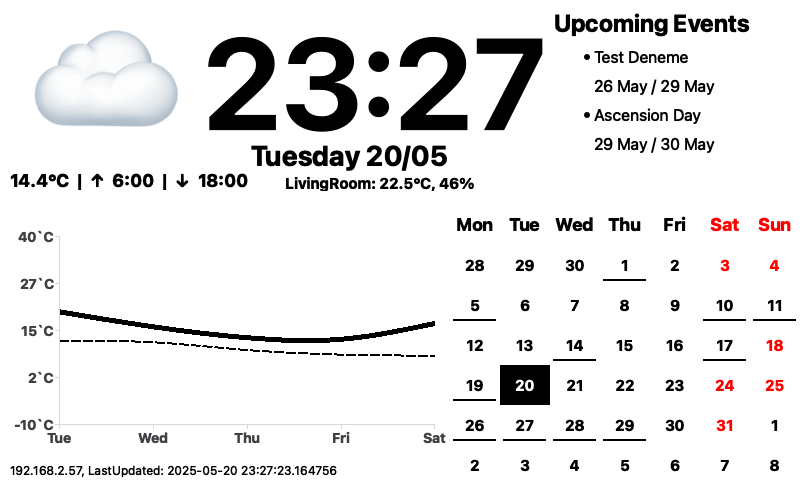
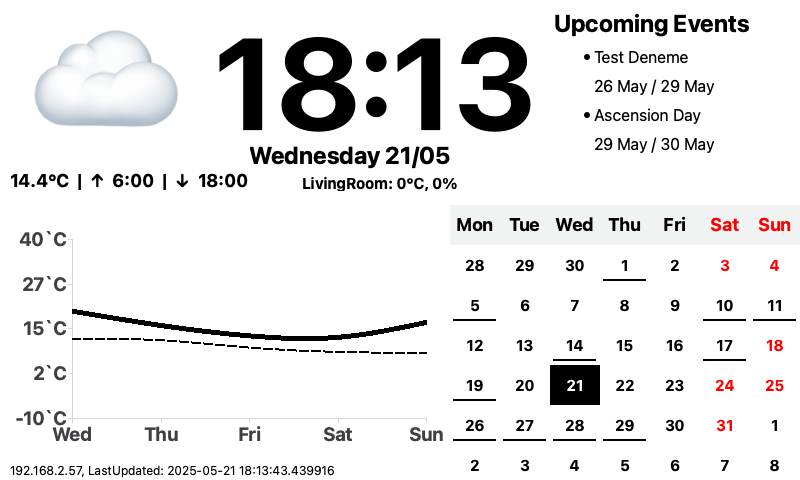
set default font

diff --git a/src/render_app.py b/src/render_app.py
@@ -116,7 +116,7 @@ class EInkDashboard(QWidget):
         self.clock_label.setAlignment(Qt.AlignCenter)
         self.clock_label.setGeometry(200, 1, 350, 160)
         self.date_label = QLabel(QDateTime.currentDateTime().toString("dddd dd/MM"), self)
-        date_font = QFont(); date_font.setPointSize(28); date_font.setBold(True)
+        date_font = QFont(); date_font.setPointSize(24); date_font.setBold(True)
         self.date_label.setFont(date_font)
         self.date_label.setAlignment(Qt.AlignCenter)
         self.date_label.setGeometry(250, 135, 200, 40)
@@ -181,7 +181,9 @@ class EInkDashboard(QWidget):
         self.sysinfo_label.setGeometry(10, 460, 400, 20)
 
 if __name__ == "__main__":
+    def_font = QFont("Roboto Mono")
     app = QApplication(sys.argv)
+    QApplication.setFont(def_font)
     window = EInkDashboard()
     window.setAttribute(Qt.WA_DontShowOnScreen)
     window.show()

diff --git a/src/providers/weather_provider.py b/src/providers/weather_provider.py
@@ -11,8 +11,8 @@ PORT = 1883
 CURRENT_WEATHER_TOPIC = "weather/current"
 WEATHER_FORECAST_TOPIC = "weather/estimation"
 CLIENT_ID = "weather-provider-client"
-USERNAME = None    # set if broker requires auth
-PASSWORD = None
+USERNAME = "ex"    # set if broker requires auth
+PASSWORD = "ex"
 
 
 def weather_emoji(code: int) -> str:
@@ -100,6 +100,7 @@ class WeatherProvider:
         Connect to the broker and start the network loop in the background.
         """
         if not self._running:
+            self.client.username_pw_set(username=USERNAME, password=PASSWORD)
             self.client.connect(BROKER, PORT, keepalive=60)
             self.client.loop_start()
             self._running = True

diff --git a/src/providers/notes_provider.py b/src/providers/notes_provider.py
@@ -53,6 +53,6 @@ class NotesProvider:
             start = get_formatted_dt_from_event(ev, "start")
             end = get_formatted_dt_from_event(ev, "end")
 
-            events_return_text += f"-  {ev["summary"]} \n"
-            events_return_text += f"\n   {start.strftime("%-d %b")} / {end.strftime("%-d %b")} \n"
+            events_return_text += f"-  {ev['summary']} \n"
+            events_return_text += f"\n   {start.strftime('%-d %b')} / {end.strftime('%-d %b')} \n"
         return events_return_text

diff --git a/src/providers/home_status_provider.py b/src/providers/home_status_provider.py
@@ -3,7 +3,7 @@
 
 import paho.mqtt.client as mqtt
 
-BROKER = "homeassistant.local"
+BROKER = "localhost"
 PORT = 1883
 CURRENT_TEMPERATURE_TOPIC = "homeassistant/sensor/temperature/state"
 CURRENT_HUMIDITY_TOPIC = "homeassistant/sensor/humidity/state"
